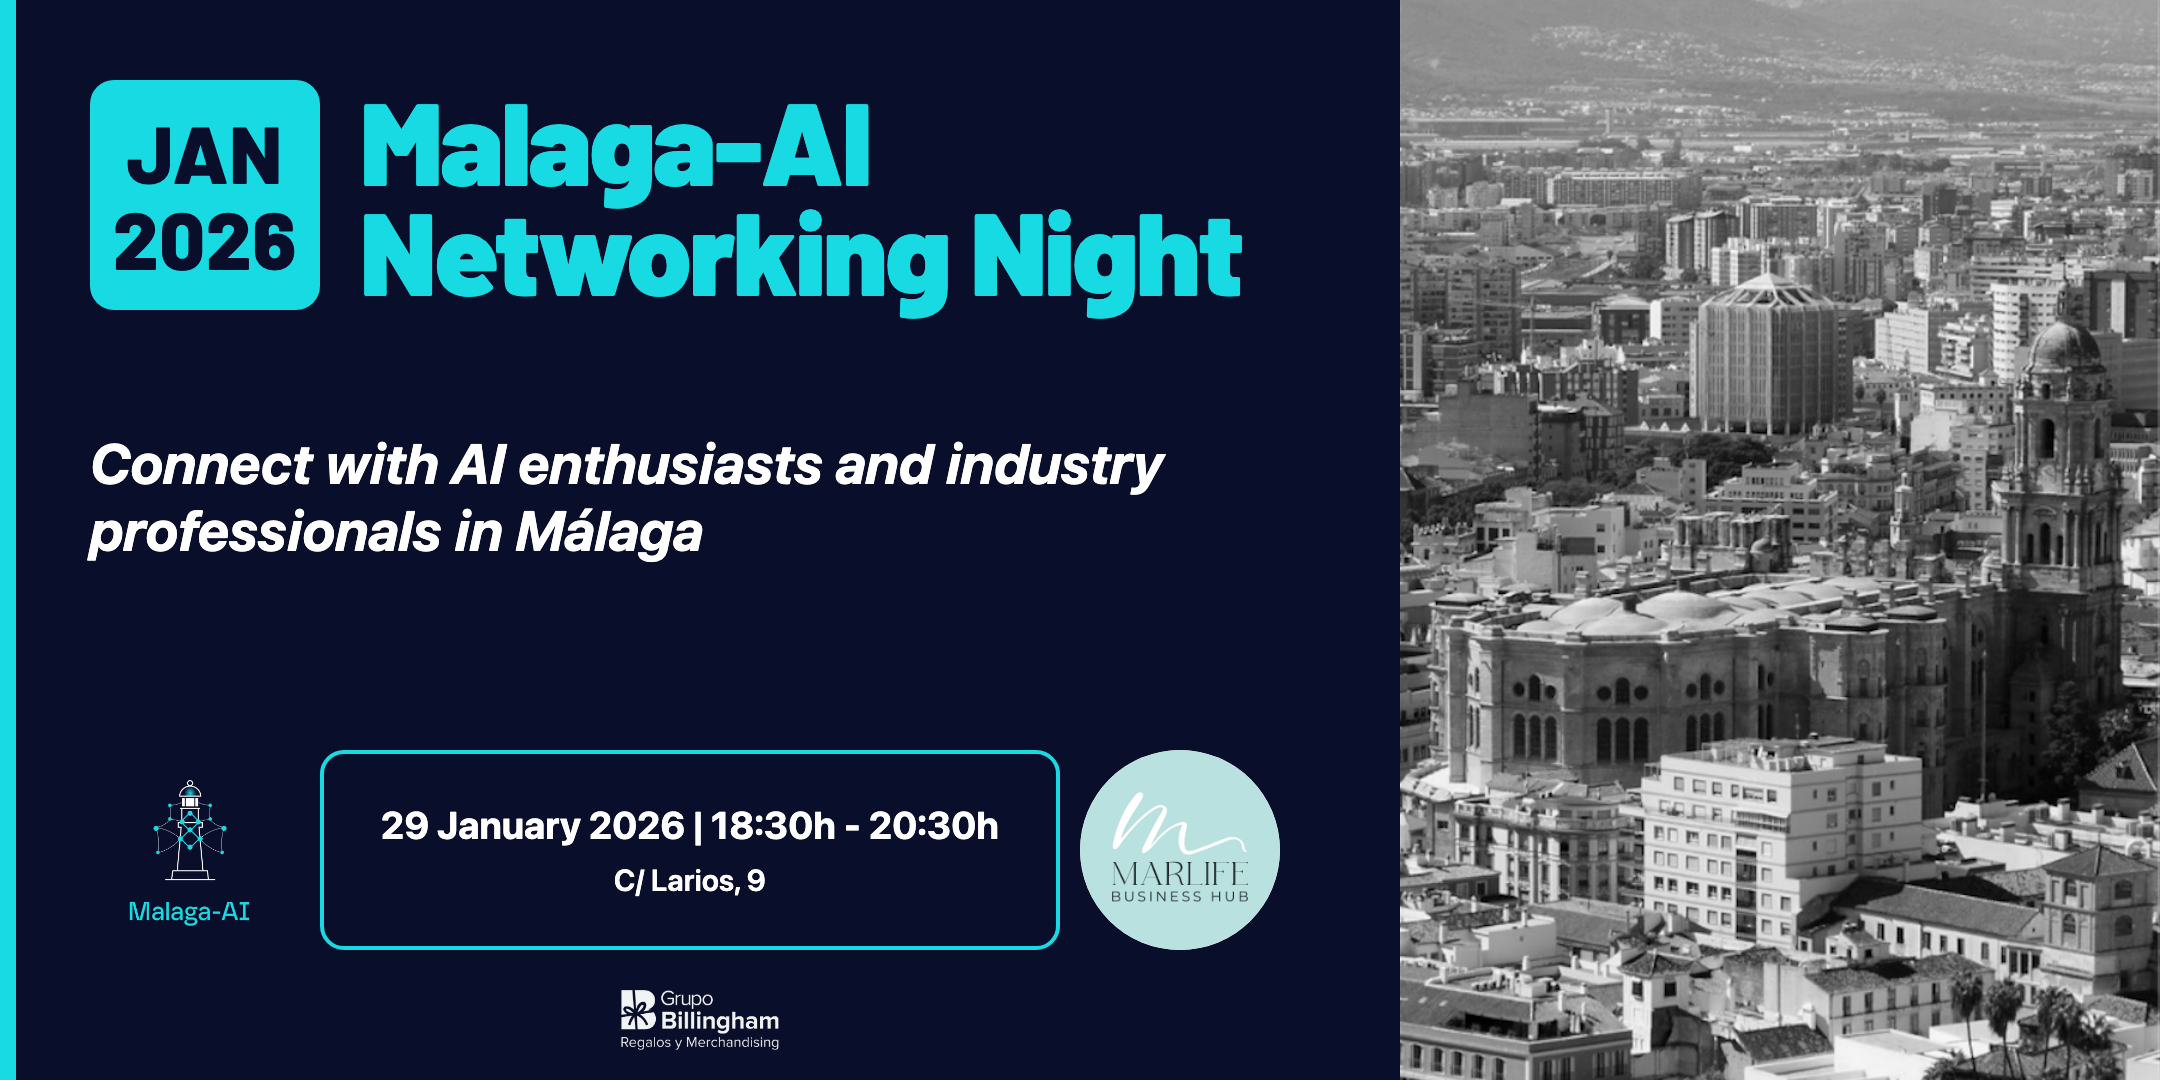
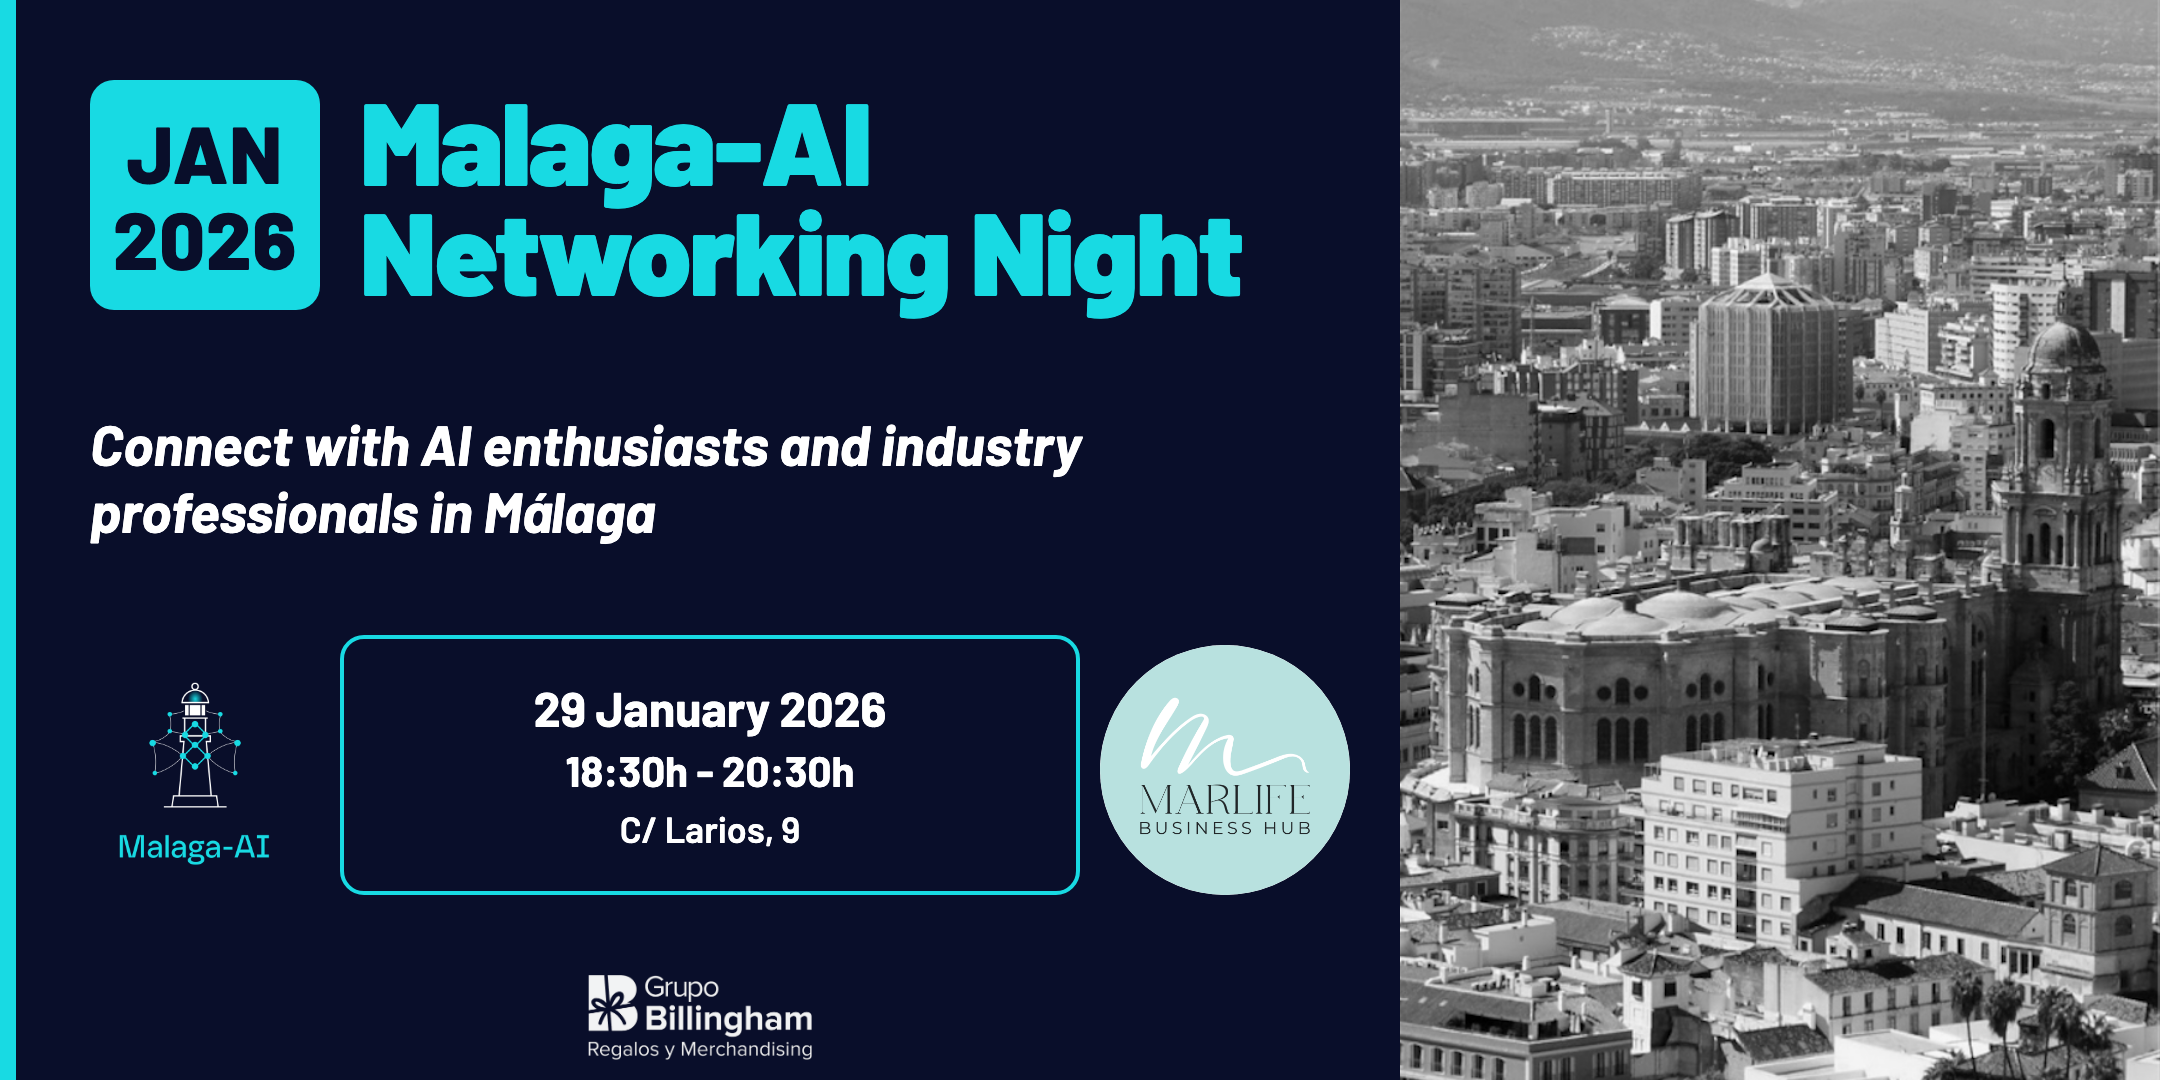
Add new networking events

diff --git a/template/networking-session.html b/template/networking-session.html
@@ -97,13 +97,13 @@
     z-index: 3;
   }
 
-  /* ─── Date + venue rounded box (centred between the two logos) ─── */
+  /* ─── Date + time + venue rounded box (centred between the two logos) ─── */
   .date-box {
     position: absolute;
-    top: 645px;
+    top: 635px;
     left: 340px;
     width: 740px;
-    height: 240px;
+    height: 260px;
     padding: 20px 20px;
     border: 4px solid #18DAE3;
     border-radius: 24px;
@@ -119,14 +119,21 @@
   .date-box .date-line {
     font-size: 48px;
     font-weight: 700;
-    line-height: 1.2;
+    line-height: 1.15;
     white-space: nowrap;
   }
+  .date-box .time-line {
+    font-size: 42px;
+    font-weight: 700;
+    line-height: 1.15;
+    white-space: nowrap;
+    margin-top: 10px;
+  }
   .date-box .venue-line {
-    font-size: 40px;
+    font-size: 36px;
     font-weight: 600;
-    line-height: 1.2;
-    margin-top: 16px;
+    line-height: 1.15;
+    margin-top: 14px;
   }
 
   /* ─── Venue logo (right of pill) ─── */
@@ -203,7 +210,8 @@
   <p class="tagline">{{TAGLINE}}</p>
 
   <div class="date-box">
-    <div class="date-line">{{DATE}} | {{TIME}}</div>
+    <div class="date-line">{{DATE}}</div>
+    <div class="time-line">{{TIME}}</div>
     <div class="venue-line">{{VENUE_NAME}}</div>
   </div>
 

diff --git a/scripts/generate.js b/scripts/generate.js
@@ -254,9 +254,16 @@ if (type === 'community') {
   const venue = VENUE_MAP[data.venue];
   if (!venue) throw new Error(`Unknown venue "${data.venue}". Known: ${Object.keys(VENUE_MAP).join(', ')}`);
 
+  const MONTH_ABBR = {
+    January: 'Jan', February: 'Feb', March: 'Mar', April: 'Apr',
+    May: 'May', June: 'June', July: 'July', August: 'Aug',
+    September: 'Sept', October: 'Oct', November: 'Nov', December: 'Dec',
+  };
+
   const monthRaw = (data.month || '').trim();
   const monthParts = monthRaw.split(/\s+/);
-  const monthTop = monthParts[0] || '';
+  const monthName = monthParts[0] || '';
+  const monthTop = monthName.length > 4 ? (MONTH_ABBR[monthName] || monthName) : monthName;
   const monthBottom = monthParts.slice(1).join(' ');
 
   const tagline = data.tagline || 'Connect with AI enthusiasts and industry professionals in Málaga';
